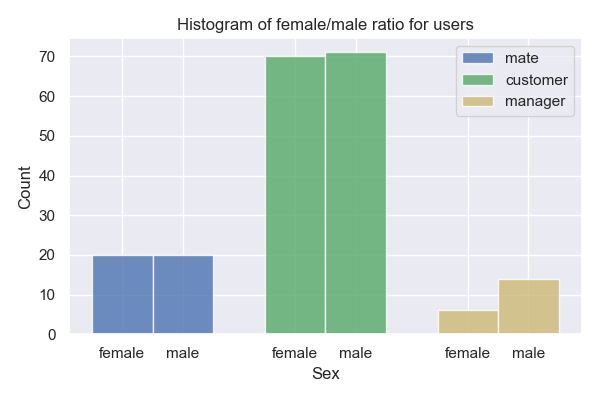
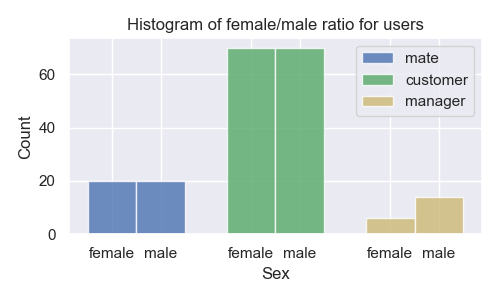
bruh

diff --git a/user_interface/visualizations.py b/user_interface/visualizations.py
@@ -58,7 +58,7 @@ def visualization1():
     print(df_b)
     print(df_c)
     n_groups = 3
-    fig, ax = plt.subplots(figsize=(6,4))
+    fig, ax = plt.subplots(figsize=(5,3))
     # parameter for drawing
     bar_width = 0.35
     opacity = 0.8
